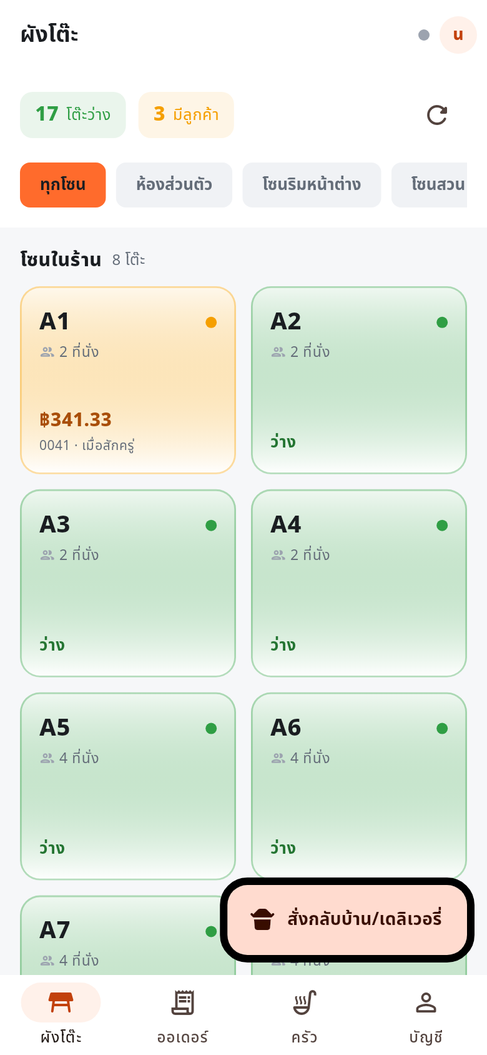
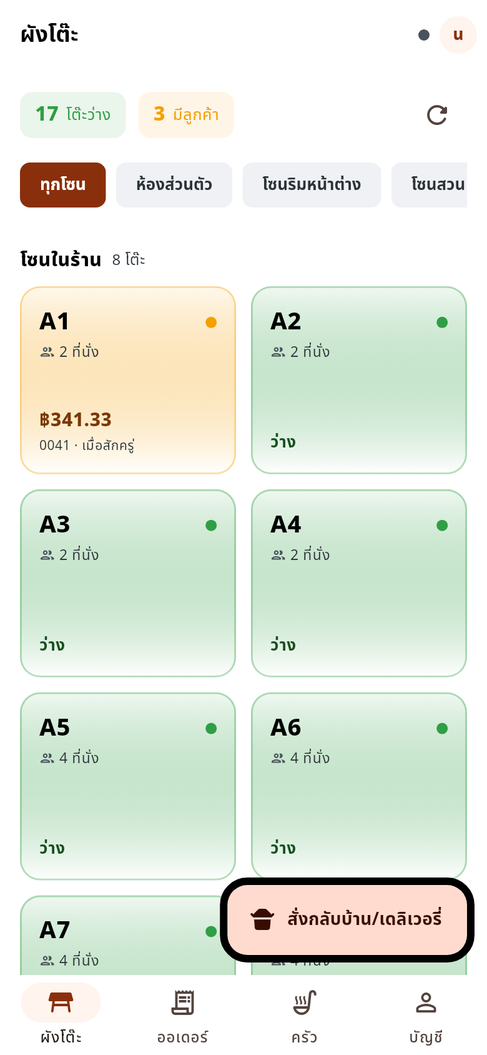
fix(screenshots): แก้บั๊กภาพ "โหมดคอนทราสต์สูง" ที่ไม่เคยเป็นโหมดนั้นจริงมาตลอด
เจอตอนตรวจหน้า Landing Page ว่าภาพเปรียบเทียบโหมดปกติ/คอนทราสต์สูงดูแทบไม่ต่างกันเลย
ไล่จนถึง md5sum แล้วพบว่า phone-27-tables-high-contrast.png และ
tablet-26-kitchen-high-contrast.png เหมือนกับคู่โหมดปกติทุกไบต์ ไม่ใช่แค่คล้ายกัน

สาเหตุ: capture_test.dart ตั้ง AppColors.contrast = high ตรงๆ ก่อนเรียก launchApp() แต่
PaynEatApp.build() เรียก ContrastService.restore() ทุกครั้งที่ build ซึ่งอ่านค่าจาก
StorageService (ที่ launchApp() สร้างใหม่ว่างเปล่าทุกครั้ง) แล้วตั้งทับกลับเป็น standard
ทันที ก่อน widget ใดจะได้วาดด้วยซ้ำ — แก้โดย seed StorageService ก่อนสร้างแอปแทน
(ตามเส้นทางเดียวกับตอนแอปเปิดจริง)

Regenerate ภาพทั้งชุดยืนยันว่ามีแค่ 2 ไฟล์นี้เปลี่ยน (อีก 27 ใบไบต์เหมือนเดิมทุกอัน) รายละเอียด
เต็มอยู่ที่ docs/DECISIONS.md #24

Claude-Session: https://claude.ai/code/session_015QPNeE7q38UAZyrNhMsxjF

diff --git a/app/tool/screenshots/screenshot_harness.dart b/app/tool/screenshots/screenshot_harness.dart
@@ -88,13 +88,28 @@ class ScreenshotHarness {
   /// เตรียม storage แล้ววางแอปจริงลงบน tester
   ///
   /// ปล่อยให้ GetMaterialApp เรียก InitialBinding เอง จะได้เป็นเส้นทางเดียวกับตอนใช้งานจริง
-  static Future<void> launchApp(WidgetTester tester, Size size) async {
+  ///
+  /// [highContrast] ต้องเซฟลง storage ก่อนสร้างแอป ไม่ใช่ตั้ง `AppColors.contrast`
+  /// ตรง ๆ หลังจากนี้ — `PaynEatApp.build()` เรียก `ContrastService.restore()` ทุกครั้ง
+  /// ที่ build ซึ่งจะอ่านค่าจาก storage แล้วตั้งทับ `AppColors.contrast` อยู่ดี
+  /// (นี่คือสาเหตุที่ภาพ `*-high-contrast.png` เคยออกมาเหมือนภาพโหมดปกติเป๊ะทุกไบต์
+  /// มาตลอด — เดิมโค้ดตั้ง `AppColors.contrast = AppContrast.high` ตรง ๆ ใน `setUp`
+  /// ก่อนเรียก [launchApp] แต่ storage ว่างเปล่าทำให้ restore() ตั้งค่ากลับเป็นปกติทันที)
+  static Future<void> launchApp(
+    WidgetTester tester,
+    Size size, {
+    bool highContrast = false,
+  }) async {
     setSurface(tester, size);
     Get.reset();
 
     // ใช้ storage แบบหน่วยความจำ เพราะใน testWidgets เวลาเป็นแบบจำลอง
     // การ await timeout ของ GetStorage.init() จะค้างตลอด
-    Get.put<StorageService>(StorageService.memory(), permanent: true);
+    final storage = StorageService.memory();
+    if (highContrast) {
+      await storage.saveContrast('high');
+    }
+    Get.put<StorageService>(storage, permanent: true);
 
     await tester.pumpWidget(const PaynEatApp());
     await settle(tester);

diff --git a/app/tool/screenshots/capture_test.dart b/app/tool/screenshots/capture_test.dart
@@ -7,7 +7,6 @@ import 'package:flutter/material.dart';
 import 'package:flutter_test/flutter_test.dart';
 import 'package:get/get.dart';
 import 'package:payneat_pos/app/routes/app_routes.dart';
-import 'package:payneat_pos/app/theme/app_colors.dart';
 import 'package:payneat_pos/features/home/presentation/controllers/home_controller.dart';
 
 import 'screenshot_harness.dart';
@@ -320,11 +319,12 @@ void main() {
   // โหมดคอนทราสต์สูง — ถ่ายหน้าเดียวกับโหมดปกติเพื่อให้เทียบกันตรง ๆ ได้
   // ---------------------------------------------------------------------
   group('โหมดคอนทราสต์สูง', () {
-    setUp(() => AppColors.contrast = AppContrast.high);
-    tearDown(() => AppColors.contrast = AppContrast.standard);
-
     testWidgets('26 จอครัวโหมดคอนทราสต์สูง', (tester) async {
-      await ScreenshotHarness.launchApp(tester, ScreenshotHarness.tablet);
+      await ScreenshotHarness.launchApp(
+        tester,
+        ScreenshotHarness.tablet,
+        highContrast: true,
+      );
       await ScreenshotHarness.loginAs(tester, 'kitchen', 'kitchen123');
       await ScreenshotHarness.settle(tester);
       await ScreenshotHarness.capture(
@@ -334,7 +334,11 @@ void main() {
     });
 
     testWidgets('27 ผังโต๊ะโหมดคอนทราสต์สูง', (tester) async {
-      await ScreenshotHarness.launchApp(tester, ScreenshotHarness.phone);
+      await ScreenshotHarness.launchApp(
+        tester,
+        ScreenshotHarness.phone,
+        highContrast: true,
+      );
       await ScreenshotHarness.loginAs(tester, 'waiter1', 'waiter123');
       await ScreenshotHarness.settle(tester);
       await ScreenshotHarness.capture(tester, 'phone-27-tables-high-contrast');

diff --git a/docs/DECISIONS.md b/docs/DECISIONS.md
@@ -745,3 +745,48 @@ criteria ของทิกเก็ตนี้ — เพิ่มทีหล
 เติมรายการที่ขาดให้ครบพร้อมกับเพิ่ม `queue_number` ของทิกเก็ตนี้เอง (ไม่ได้แก้ปัญหา CREATE INDEX
 ที่อ้างถึงคอลัมน์ใหม่บนฐานข้อมูลเก่ามากไปกว่านี้ เพราะนอกขอบเขตทิกเก็ตนี้และไม่มีเทสต์คลุมสถานการณ์
 อัปเกรดฐานข้อมูลเก่าอยู่แล้ว)
+
+---
+
+## 24. บั๊กในเครื่องมือถ่ายภาพหน้าจอ — ภาพ "โหมดคอนทราสต์สูง" ไม่เคยเป็นโหมดคอนทราสต์สูงจริงมาตลอด
+
+**พบระหว่างไหน** — ระหว่างตรวจสอบหน้า Landing Page ตามที่ผู้ใช้ขอ (เห็นว่าภาพเปรียบเทียบ
+โหมดปกติ/คอนทราสต์สูงในหน้านั้นดูแทบไม่ต่างกันเลยที่ขนาดเล็ก) ไล่ตรวจจนถึง `md5sum` ของไฟล์ต้นทาง
+`docs/screenshots/phone-27-tables-high-contrast.png` และ `tablet-26-kitchen-high-contrast.png`
+พบว่า**เหมือนกับคู่โหมดปกติทุกไบต์** — ไม่ใช่แค่คล้ายกัน แต่เป็นไฟล์เดียวกันเป๊ะ ตั้งแต่ภาพชุดนี้
+ถูกสร้างขึ้นครั้งแรก (ก่อนหน้านี้ในเซสชันนี้เองที่เพิ่งรัน regenerate ทั้งชุดไปสำหรับทิกเก็ต 10
+ก็ยังไม่ทันสังเกตเห็นจุดนี้ เพราะดูแค่ว่า "มีการเปลี่ยนแปลงจริง" ของแต่ละไฟล์ ไม่ได้ไล่เทียบสองไฟล์
+คู่กันเอง)
+
+**สาเหตุที่แท้จริง** — `tool/screenshots/capture_test.dart` เดิมตั้งโหมดด้วย
+`setUp(() => AppColors.contrast = AppContrast.high)` ก่อนเรียก `ScreenshotHarness.launchApp()`
+แต่ `PaynEatApp.build()` (ดู `lib/app/app.dart`) เรียก `ContrastService.restore()` **ทุกครั้งที่
+build** ("ต้องคืนค่าคอนทราสต์ก่อนสร้างธีม ไม่งั้นเฟรมแรกจะวาดด้วยโหมดปกติแล้วค่อยกระพริบ") ซึ่งอ่านค่า
+จาก `StorageService` แล้วตั้งทับ `AppColors.contrast` — และ `launchApp()` สร้าง
+`StorageService.memory()` ใหม่ว่างเปล่าทุกครั้ง ค่าที่ทดสอบตั้งไว้ตรง ๆ ก่อนหน้านั้นเลยถูกรีเซ็ตกลับเป็น
+`AppContrast.standard` ทันทีที่ `pumpWidget(const PaynEatApp())` ทำงาน ก่อนที่ widget ใด ๆ จะได้วาด
+ด้วยซ้ำ — เท่ากับว่าทุกภาพที่ติดคำว่า "high-contrast" ในชื่อไฟล์ ถูกถ่ายด้วยโหมดปกติมาตลอด
+
+**ทำไมไม่มีเทสต์ไหนจับได้มาก่อน** — `contrast_service_test.dart`/`app_colors_contrast_test.dart`
+ทดสอบเส้นทางสลับโหมดจริง (ผ่านปุ่มในแอป) และค่าคอนทราสต์ที่คำนวณจาก token โดยตรง ซึ่งทั้งคู่ถูกต้อง
+อยู่แล้ว — บั๊กอยู่เฉพาะในตัวเครื่องมือถ่ายภาพหน้าจอ (`tool/screenshots/`) ที่ไม่ได้อยู่ใน `test/`
+และไม่มีอะไรเทียบภาพ 2 ไฟล์กันเองว่าต้องต่างกัน (golden test เทียบแค่ "ไฟล์นี้ตรงกับที่คอมมิตไว้
+ไหม" ไม่เคยเทียบ "ไฟล์ A ต้องไม่เหมือนไฟล์ B")
+
+**ที่แก้** — ย้ายการตั้งโหมดจาก `AppColors.contrast = ...` ตรง ๆ ไปเป็นการ seed
+`StorageService` **ก่อน** สร้างแอป (`ScreenshotHarness.launchApp(..., highContrast: true)` เรียก
+`storage.saveContrast('high')` ก่อน `Get.put<StorageService>(storage, ...)`) ให้เดินตามเส้นทางเดียว
+กับตอนแอปเปิดจริง (`ContrastService.restore()` อ่านเจอค่าที่ seed ไว้แล้วตั้งถูกต้องตั้งแต่ build
+แรก) ลบ `setUp`/`tearDown` เดิมที่ตั้ง static field ตรง ๆ ทิ้งเพราะไม่มีผลจริงอยู่แล้ว
+
+**ผลหลังแก้** — regenerate ภาพทั้งชุดใหม่ มีแค่ 2 ไฟล์นี้เท่านั้นที่เปลี่ยน (ไฟล์อื่นอีก 27 ใบ
+ไบต์เหมือนเดิมทุกอัน ยืนยันว่าไม่กระทบอะไรนอกเหนือจากนี้) เทียบแล้วเห็นความต่างจริงตามที่เอกสาร
+ข้อ 18 อธิบายไว้ เช่นปุ่ม "เริ่มทำ" บนตั๋วครัวสลับจากพื้นส้มสด/ตัวหนังสือเข้ม เป็นพื้นน้ำตาลเข้ม/
+ตัวหนังสือขาวเมื่อสลับโหมด (`AppColors.fillOf`/`onColor`) และหัวคอลัมน์ "รอทำ" เข้มขึ้นชัดเจน
+(`AppColors.inkOf`) — นำภาพที่ถูกต้องไปใช้แทนในหน้า Landing Page ด้วย
+
+**บทเรียน** — ชื่อไฟล์ที่บอกว่า "ภาพนี้คือโหมด X" ไม่ได้แปลว่าภาพนั้นถูกถ่ายในโหมด X จริง
+ต้องตรวจสอบด้วยว่าค่า config ที่ตั้งไว้ก่อนถ่ายภาพ **อยู่รอด** จนถึงตอนที่ widget ถูกวาดจริงหรือเปล่า
+โดยเฉพาะเมื่อโค้ดแอปเองมีจุด "restore ค่าจาก storage ทับทุกครั้งที่ build" อยู่แล้วเพื่อจุดประสงค์อื่น
+(กันกระพริบตอนเปิดแอป) — จุดตรวจสอบที่ง่ายและตรงที่สุดคือเทียบ `md5sum`/ไบต์ของภาพคู่ที่ควรต่างกัน
+ไม่ใช่แค่ดูว่าแต่ละภาพ "เปลี่ยนไปจากที่คอมมิตไว้" หรือเปล่า
